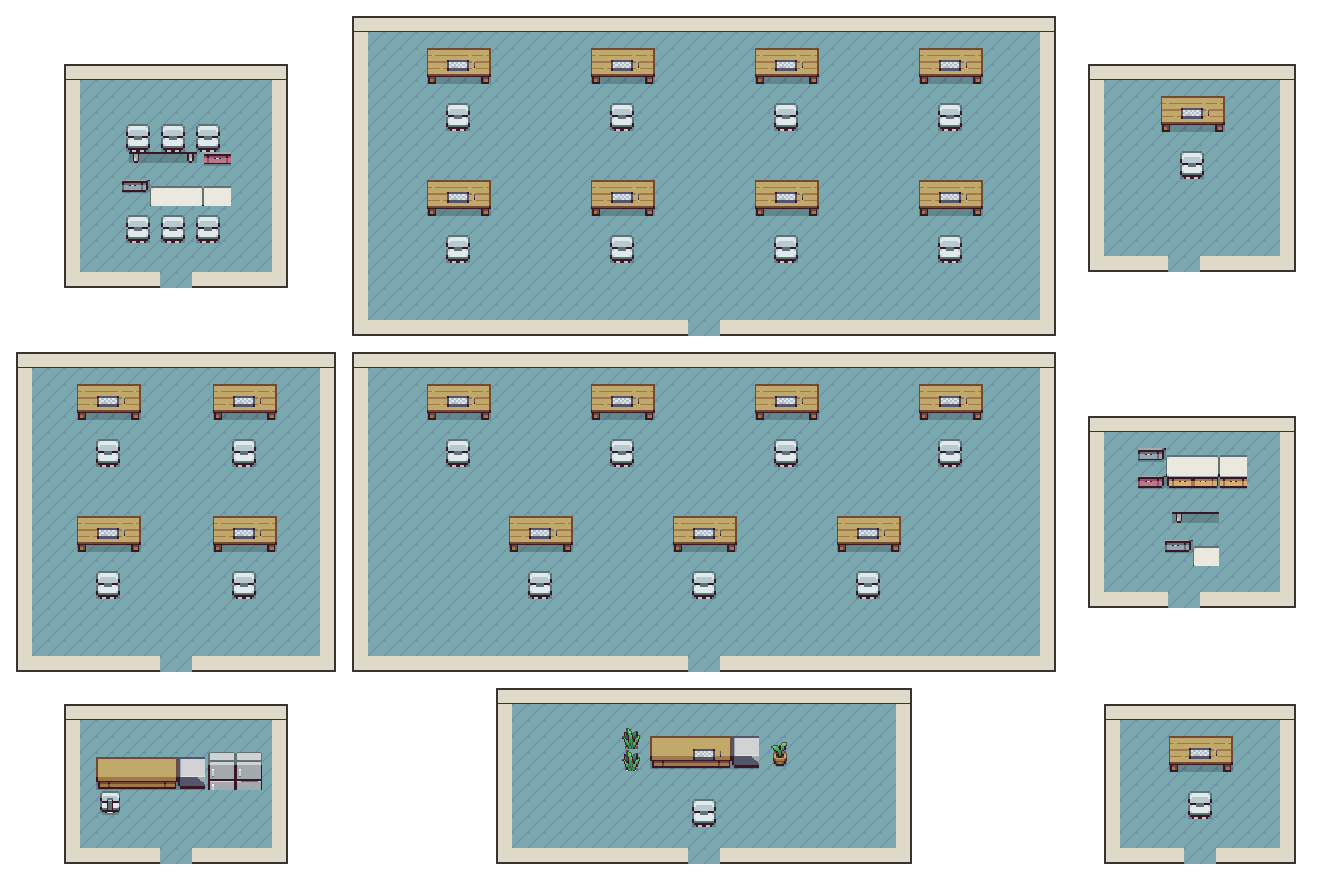
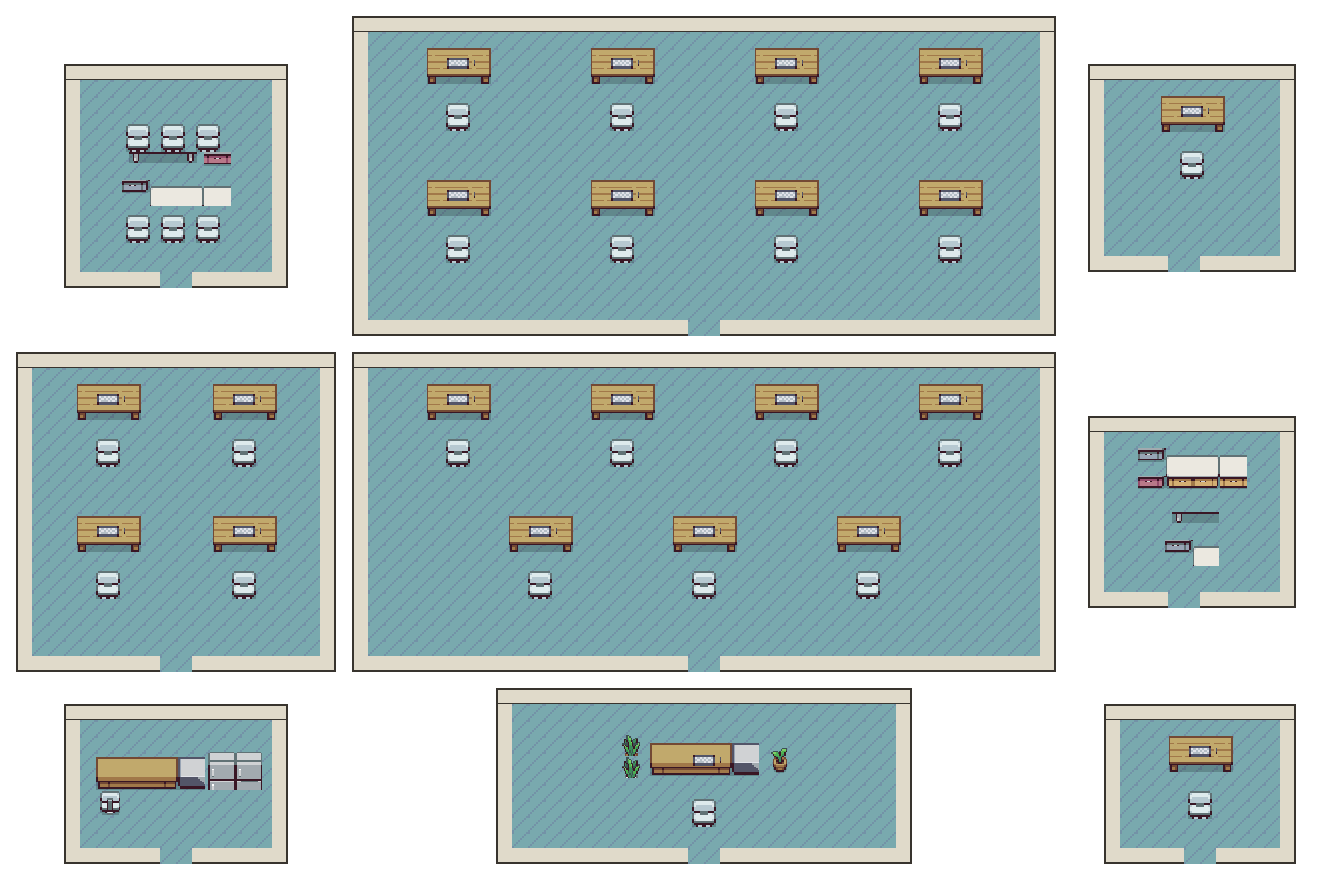
fix(office): keyboards a touch more north; founder desk/kit slightly south

diff --git a/ui/src/lib/office-sprite-catalog.ts b/ui/src/lib/office-sprite-catalog.ts
@@ -96,7 +96,7 @@ export const CATALOG_MANIFEST_URL = "/assets/office-characters/manifest.json";
 // Bump when the sprite PNGs are regenerated — the filenames stay the same, so
 // without this the browser serves stale cached images. Appended as ?v= to every
 // sprite URL so a redeploy always shows the latest art.
-export const ART_VERSION = "17";
+export const ART_VERSION = "18";
 
 /** Append the art-version cache-buster to a sprite URL. */
 export function bustCache(url: string): string {